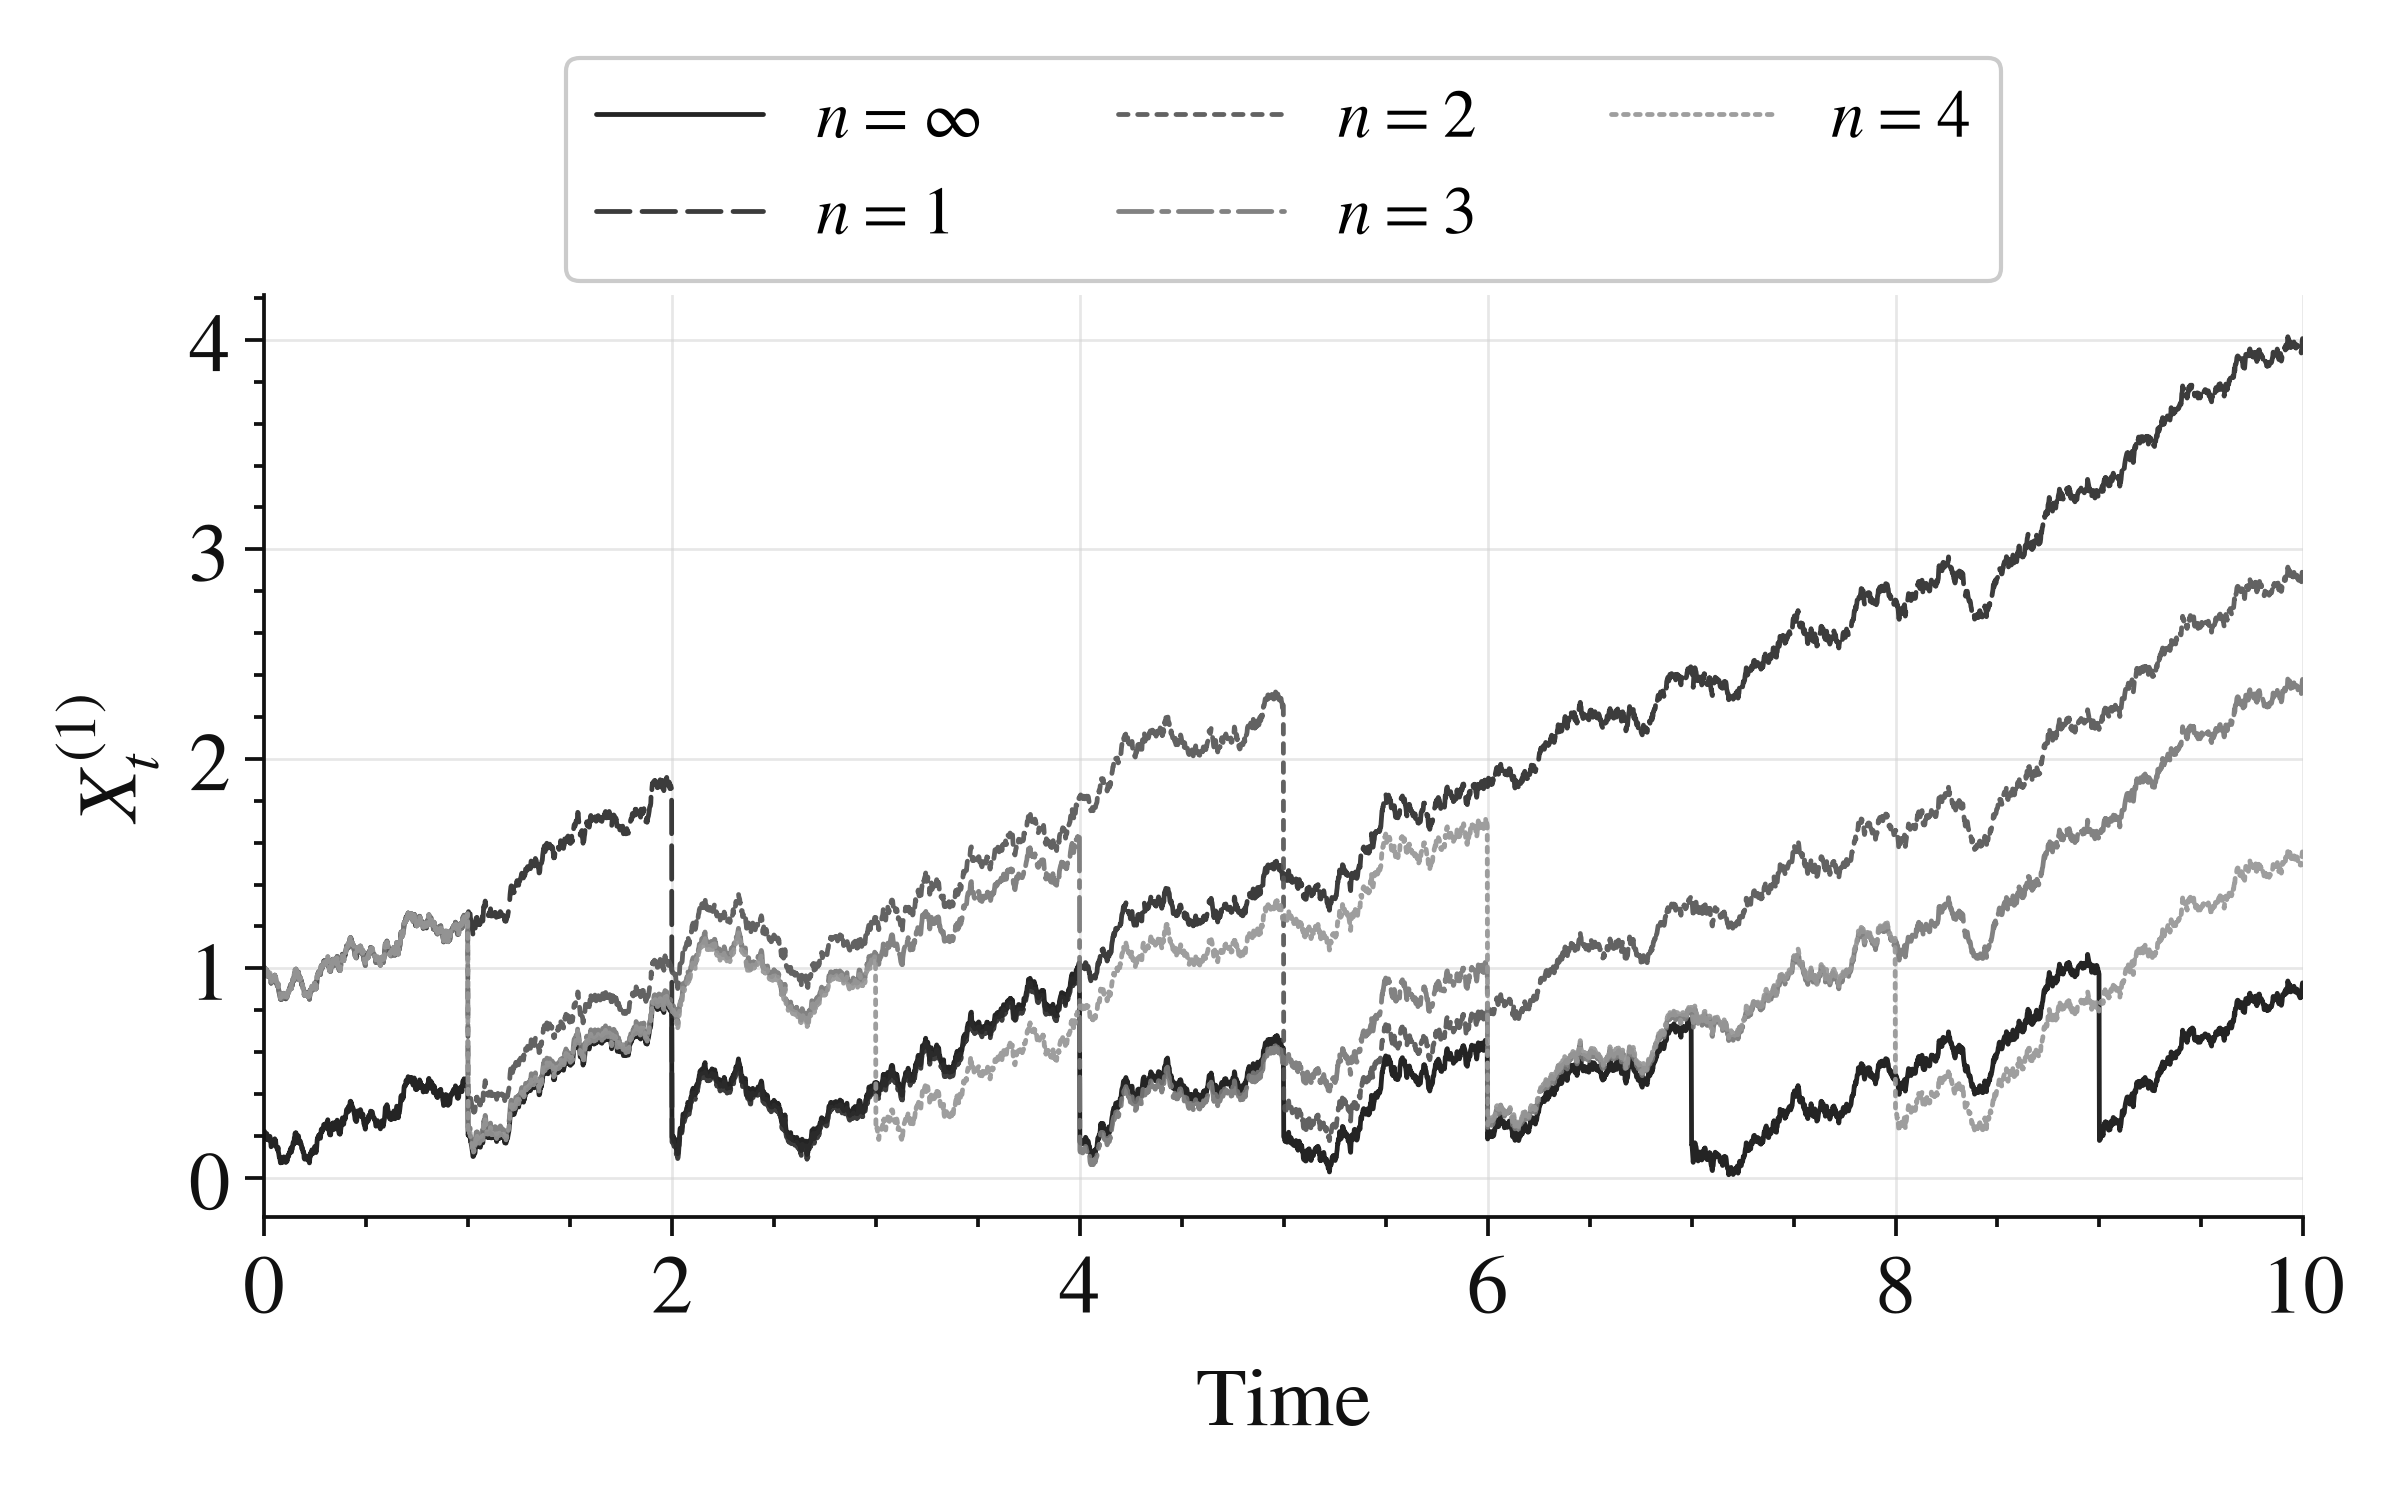
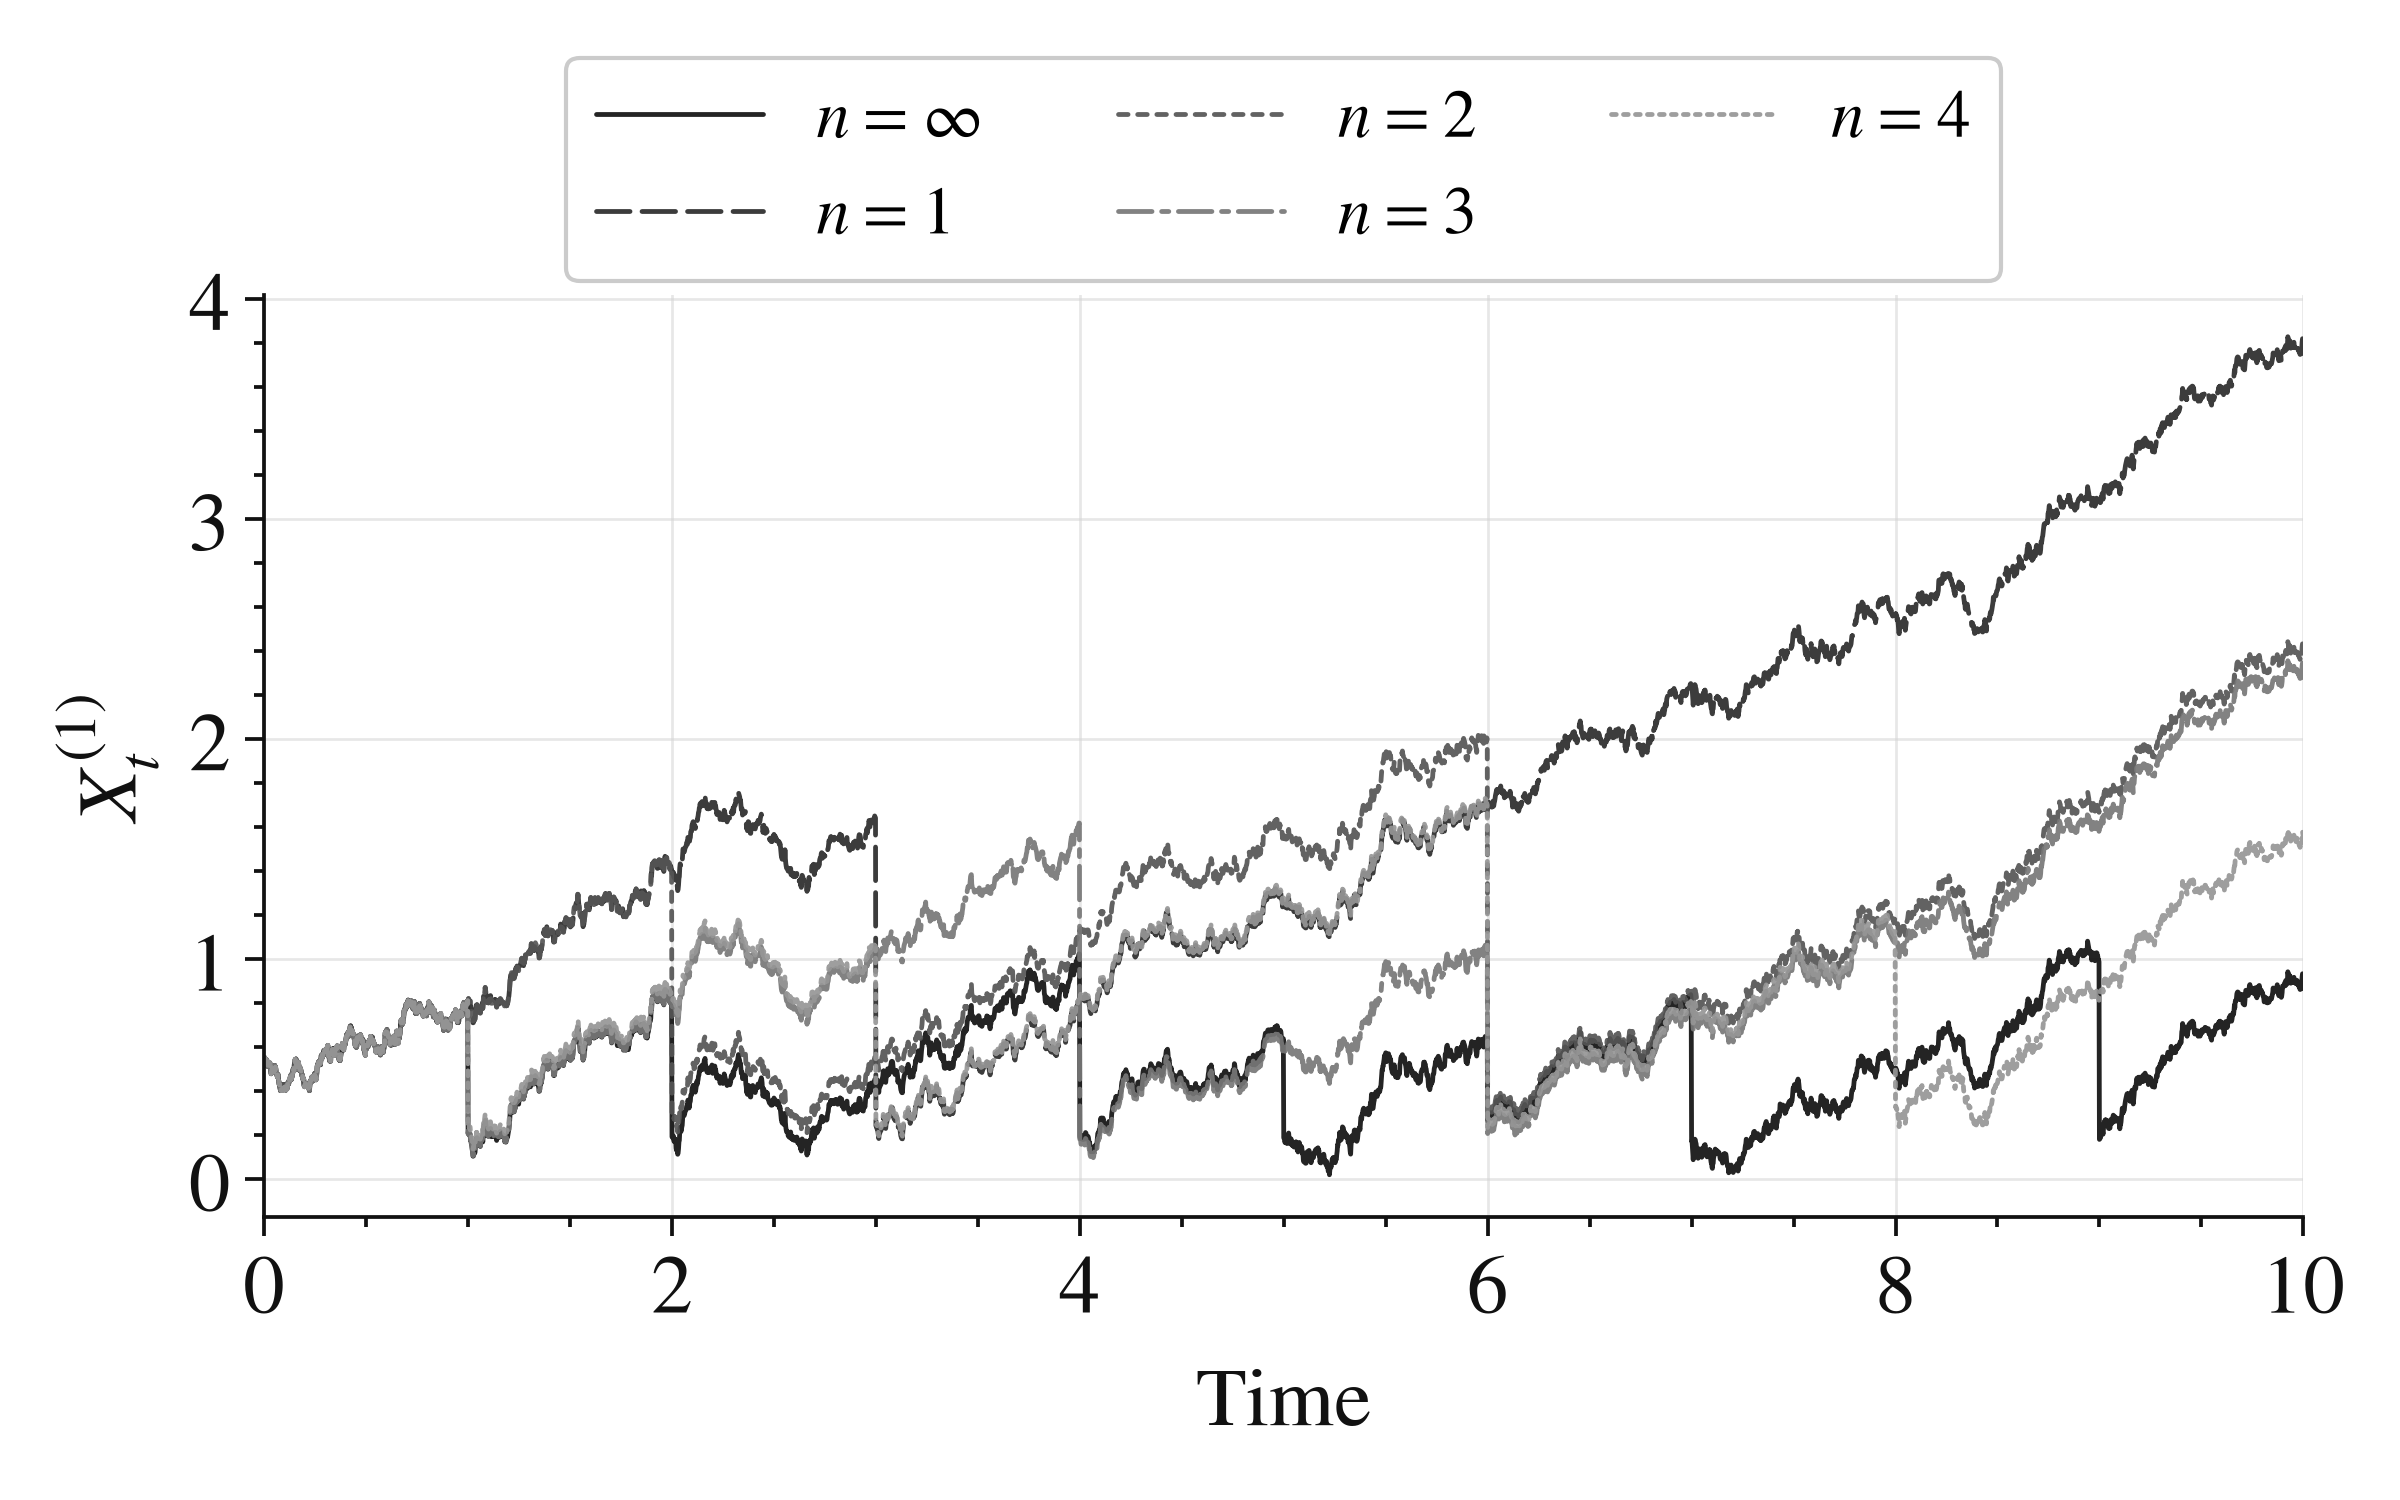
Finalize SISC companion artifact v1.0.6

diff --git a/impulse_control/plotting.py b/impulse_control/plotting.py
@@ -376,10 +376,11 @@ def plot_limited_paths(
     *,
     seed: int = 123,
     dt_fine: float = 2e-3,
+    initial_state: float = 1.0,
     output_prefix: Optional[str] = None,
     show: bool = True,
 ):
-    """Plot shared-Brownian controlled paths without exposing bundle internals."""
+    """Plot shared-Brownian paths from one common diagonal initial state."""
     seed_everything(seed)
     use_white_style()
     unlimited = bundle["unconstrained"]
@@ -389,7 +390,12 @@ def plot_limited_paths(
     module = __import__(f"impulse_control.{application}", fromlist=["EulerStepper"])
     params = getattr(cfg, application)
     dimension = int(params.state_dim)
-    x0 = torch.ones((1, dimension), device=cfg.device, dtype=cfg.dtype)
+    x0 = torch.full(
+        (1, dimension),
+        float(initial_state),
+        device=cfg.device,
+        dtype=cfg.dtype,
+    )
     noise = module.precompute_euler_noise(
         t_grid=unlimited["t_grid"],
         n_sim=1,

diff --git a/tools/reproduce_figures.py b/tools/reproduce_figures.py
@@ -82,9 +82,15 @@ def reproduce_one(stem: str, output_dir: Path, device: str) -> None:
                 "harvesting_limited_d1": 1,
                 "dividend_limited_d4": 143,
             }
+            initial_states = {
+                "dividend_limited_d1": 0.55,
+                "harvesting_limited_d1": 1.0,
+                "dividend_limited_d4": 0.55,
+            }
             figures = plot_limited_paths(
                 bundle,
                 seed=seeds[stem],
+                initial_state=initial_states[stem],
                 output_prefix=str(output_dir / stem),
                 show=False,
             )

diff --git a/README.md b/README.md
@@ -32,7 +32,7 @@ The checkpoints use Git LFS and total approximately 84 MiB.
 
 ```bash
 git lfs install
-git clone --branch sisc-article-v1.0.5 --depth 1 \
+git clone --branch sisc-article-v1.0.6 --depth 1 \
   https://github.com/AurelienGrenard/Impulse-control.git
 cd Impulse-control
 git lfs pull
